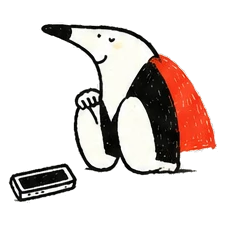
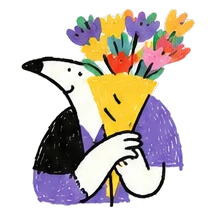
fix(ui): tira a ilustração do tamanduá debaixo do cobertor do pacote
O pacote "Tamanduá no dia a dia" perde o desenho 04 (o bicho sob o cobertor, onde quase só a cabeça
aparece) e passa a ter 15, renumerados de 01 a 15. Como 5 divide 15, o passo do sorteio entre seções
deixaria de percorrer o pacote: ilustracaoDoDia agora usa passoCoprimo, que sobe o passo preferido até
um sem divisor comum com o total (5 e 7 continuam valendo para 16, e o sorteio atual não muda para
pacotes de 16). Testes cobrem vários tamanhos de pacote; DESIGN.md atualizado.

diff --git a/tests/frases-das-secoes.test.ts b/tests/frases-das-secoes.test.ts
@@ -29,15 +29,29 @@ test("frases das seções: frase com {org} só quando a organização tem nome p
   assert.equal(escolherFrase(modelos, { agora, organizacao: "Minha organização" }), null);
 });
 
-test("ilustração do dia: de 1 a 16, usa todas no mesmo dia (só as seções que passam de 16 repetem) e muda no dia seguinte", async () => {
+test("ilustração do dia: de 1 ao total do pacote, usa todas no mesmo dia (só as seções que passam do total repetem) e muda no dia seguinte", async () => {
   const { ilustracaoDoDia } = await import("../lib/frases-das-secoes");
+  const total = PACOTE_ATIVO.total;
   const secoes = ["painel", ...Object.keys(FRASES_DAS_SECOES)] as Parameters<typeof ilustracaoDoDia>[0][];
   const hoje = secoes.map(s => ilustracaoDoDia(s, agora));
-  assert.equal(new Set(hoje).size, Math.min(secoes.length, 16), "todas as 16 aparecem, sem repetir enquanto houver desenho sobrando");
-  assert.ok(hoje.slice(0, 16).every((n, i) => hoje.indexOf(n) === i), "as 16 primeiras seções não repetem");
-  assert.ok(hoje.every(n => n >= 1 && n <= 16));
+  assert.equal(new Set(hoje).size, Math.min(secoes.length, total), "todas as do pacote aparecem, sem repetir enquanto houver desenho sobrando");
+  assert.ok(hoje.slice(0, total).every((n, i) => hoje.indexOf(n) === i), "as primeiras seções, até o total do pacote, não repetem");
+  assert.ok(hoje.every(n => n >= 1 && n <= total));
   assert.equal(ilustracaoDoDia("atividades", new Date(2026, 10, 18, 23, 0)), ilustracaoDoDia("atividades", agora), "mesmo dia, mesma ilustração");
   assert.notEqual(ilustracaoDoDia("atividades", new Date(2026, 10, 19, 10, 0)), ilustracaoDoDia("atividades", agora));
+});
+
+test("o passo do sorteio nunca tem divisor comum com o total do pacote, e o sorteio percorre qualquer tamanho sem repetir", async () => {
+  const { ilustracaoDoDia, passoCoprimo } = await import("../lib/frases-das-secoes");
+  assert.equal(passoCoprimo(16, 5), 5);
+  assert.equal(passoCoprimo(15, 5), 7, "5 divide 15, então sobe até um passo que serve");
+  assert.equal(passoCoprimo(14, 7), 9);
+  const secoes = ["painel", ...Object.keys(FRASES_DAS_SECOES)] as Parameters<typeof ilustracaoDoDia>[0][];
+  for (const total of [5, 7, 10, 12, 14, 15, 16, 18, 20, 24]) {
+    const pacote = { id: "teste", nome: "teste", total };
+    const hoje = secoes.map(s => ilustracaoDoDia(s, agora, pacote));
+    assert.equal(new Set(hoje).size, Math.min(secoes.length, total), `pacote de ${total}: todas aparecem sem repetir enquanto houver desenho`);
+  }
 });
 
 test("cada pacote de ilustrações tem a sua pasta, com os arquivos numerados de 01 ao total, sem buraco e sem sobra", async () => {
@@ -50,12 +64,12 @@ test("cada pacote de ilustrações tem a sua pasta, com os arquivos numerados de
   assert.deepEqual(pastas(new URL("../public/ilustracoes", import.meta.url)).sort(), PACOTES_DE_ILUSTRACOES.map((pacote) => pacote.id).sort(), "toda pasta de ilustração é um pacote registrado");
 });
 
-test("pacotes: o Tamanduá no dia a dia é o ativo, com 16 desenhos, e o endereço de cada um segue a pasta do pacote", () => {
+test("pacotes: o Tamanduá no dia a dia é o ativo, com 15 desenhos, e o endereço de cada um segue a pasta do pacote", () => {
   assert.equal(PACOTE_ATIVO.id, "dia-a-dia");
   assert.equal(PACOTE_ATIVO.nome, "Tamanduá no dia a dia");
-  assert.equal(PACOTE_ATIVO.total, 16);
+  assert.equal(PACOTE_ATIVO.total, 15);
   assert.equal(caminhoDaIlustracao(PACOTE_ATIVO, 3), "/ilustracoes/dia-a-dia/03.png");
-  assert.equal(caminhoDaIlustracao(PACOTE_ATIVO, 16), "/ilustracoes/dia-a-dia/16.png");
+  assert.equal(caminhoDaIlustracao(PACOTE_ATIVO, 15), "/ilustracoes/dia-a-dia/15.png");
   assert.equal(new Set(PACOTES_DE_ILUSTRACOES.map((pacote) => pacote.id)).size, PACOTES_DE_ILUSTRACOES.length, "ids únicos");
 });
 

diff --git a/lib/frases-das-secoes.ts b/lib/frases-das-secoes.ts
@@ -26,16 +26,28 @@ export const FRASES_DAS_SECOES = {
 
 export type SecaoComFrase = keyof typeof FRASES_DAS_SECOES;
 
+function mdc(a: number, b: number): number {
+  return b === 0 ? a : mdc(b, a % b);
+}
+
+/** O menor passo, a partir de `preferido`, sem divisor comum com `total`: assim, andar de passo em passo percorre o pacote inteiro. */
+export function passoCoprimo(total: number, preferido: number): number {
+  let passo = preferido;
+  while (mdc(passo, total) !== 1) passo++;
+  return passo;
+}
+
 const ORDEM_DAS_SECOES: (SecaoComFrase | "painel")[] = ["painel", ...(Object.keys(FRASES_DAS_SECOES) as SecaoComFrase[])];
 
 /**
  * Qual dos desenhos do pacote a seção mostra hoje (de 1 ao total do pacote). O sorteio é sempre dentro de um
  * pacote (lib/pacotes-de-ilustracoes.ts). Muda todo dia e, no mesmo dia, as seções não repetem a de outra
- * enquanto houver desenho sobrando: o passo 5 não tem divisor comum com 16, então as 16 primeiras posições não
- * colidem. Com mais seções que desenhos, só as últimas repetem uma das primeiras, e elas nunca aparecem juntas.
+ * enquanto houver desenho sobrando: o passo entre seções não tem divisor comum com o total do pacote (ver
+ * `passoCoprimo`), então as primeiras posições, até o total, não colidem. Com mais seções que desenhos, só as
+ * últimas repetem uma das primeiras, e elas nunca aparecem juntas na tela.
  */
 export function ilustracaoDoDia(secao: SecaoComFrase | "painel", agora: Date, pacote: PacoteDeIlustracoes = PACOTE_ATIVO): number {
   const dia = Math.floor(Date.UTC(agora.getFullYear(), agora.getMonth(), agora.getDate()) / 86_400_000);
   const posicao = Math.max(0, ORDEM_DAS_SECOES.indexOf(secao));
-  return ((dia * 7 + posicao * 5) % pacote.total) + 1;
+  return ((dia * passoCoprimo(pacote.total, 7) + posicao * passoCoprimo(pacote.total, 5)) % pacote.total) + 1;
 }

diff --git a/lib/pacotes-de-ilustracoes.ts b/lib/pacotes-de-ilustracoes.ts
@@ -16,8 +16,8 @@ export type PacoteDeIlustracoes = {
 };
 
 export const PACOTES_DE_ILUSTRACOES = [
-  // O tamanduá tomando café, andando de skate, atendendo o telefone e comendo hambúrguer: 16 desenhos.
-  { id: "dia-a-dia", nome: "Tamanduá no dia a dia", total: 16 },
+  // O tamanduá tomando café, andando de skate, atendendo o telefone e comendo hambúrguer: 15 desenhos.
+  { id: "dia-a-dia", nome: "Tamanduá no dia a dia", total: 15 },
 ] as const satisfies readonly PacoteDeIlustracoes[];
 
 /** O pacote que aparece na frente das frases hoje. */

diff --git a/DESIGN.md b/DESIGN.md
@@ -199,7 +199,7 @@ Use os primitivos de `components/ui/DetailPagePrimitives.tsx` para manter:
 
 As ilustrações que ficam na frente da frase de cada seção (e do painel) vêm em **pacotes**. Um pacote é um conjunto de desenhos que sempre anda junto: mora em `public/ilustracoes/<id>/`, com arquivos numerados de `01.png` ao total, e o sorteio do dia escolhe sempre dentro de um pacote, sem misturar dois.
 
-- pacote atual: **Tamanduá no dia a dia** (`dia-a-dia`), 16 desenhos só com o tamanduá;
+- pacote atual: **Tamanduá no dia a dia** (`dia-a-dia`), 15 desenhos só com o tamanduá;
 - o registro fica em `lib/pacotes-de-ilustracoes.ts`; o pacote que aparece é o `PACOTE_ATIVO`;
 - pacote novo: pasta com os desenhos numerados sem buraco, uma entrada no registro e, para ele aparecer, trocar o `PACOTE_ATIVO`. O teste confere pasta, total e que toda pasta é um pacote registrado.
 
